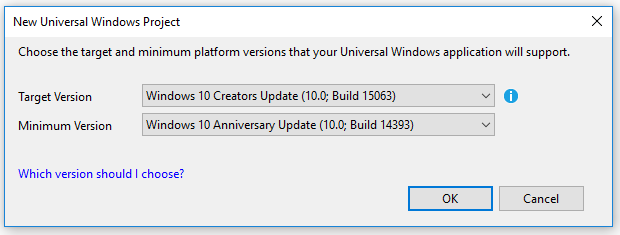
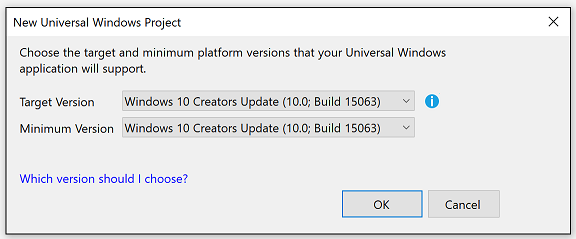
clarified windows sdk version

Changed region(s): [[0.0, 0.0, 1.0, 0.983], [0.5938, 0.7745, 0.9375, 0.9234]]

diff --git a/stories/2/211_Centennial.md b/stories/2/211_Centennial.md
@@ -40,7 +40,8 @@ To create a Desktop Bridge package, first add a C# Windows Universal Blank App p
 
 ![Add C# UWP Project](images/211-add-uwp-project.png)
 
-Make sure the minimum Windows SDK version is **14393** or higher. Windows 10 14393 or higher is required for Desktop Bridge apps.
+Make sure the minimum Windows SDK version is 14393 or higher. Windows SDK 14393 or higher is required for Desktop Bridge apps. If you only have the 15063 SDK installed 
+use 15063 for the minimum SDK. You do not need to install the 14393 to complete these tasks.
 
 ![Minimum SDK version](images/211-sdk-version.png)
 
